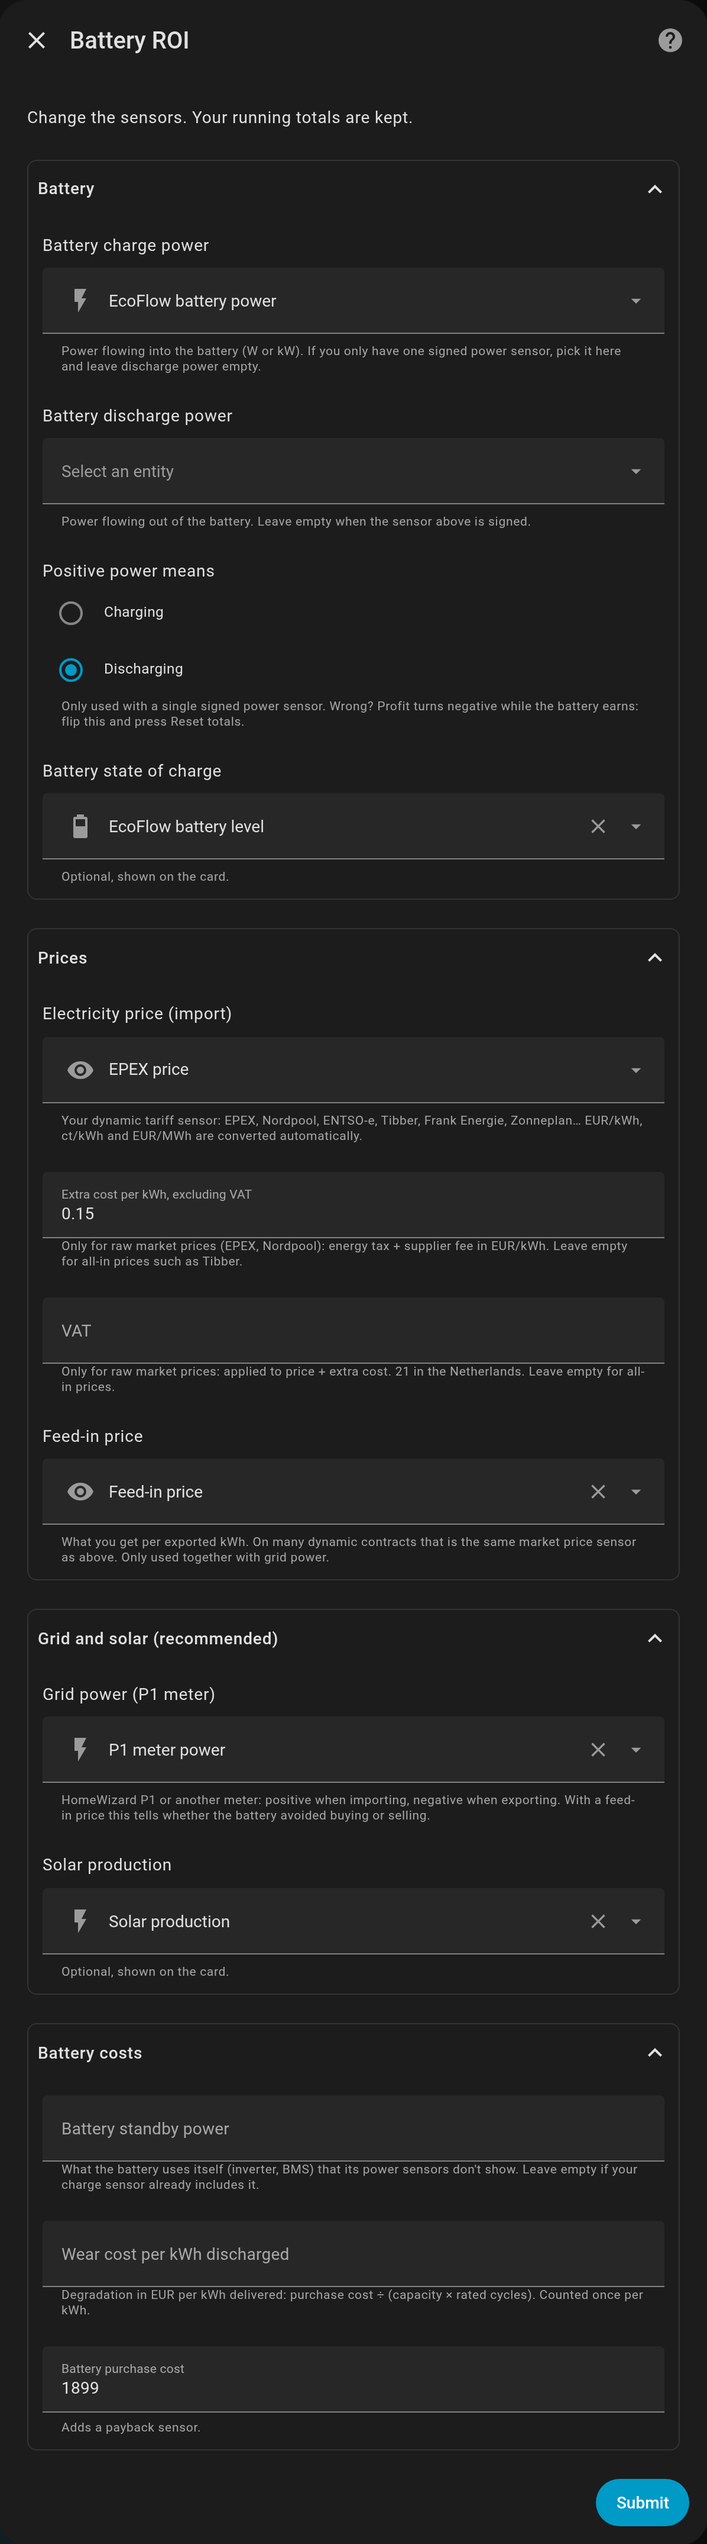
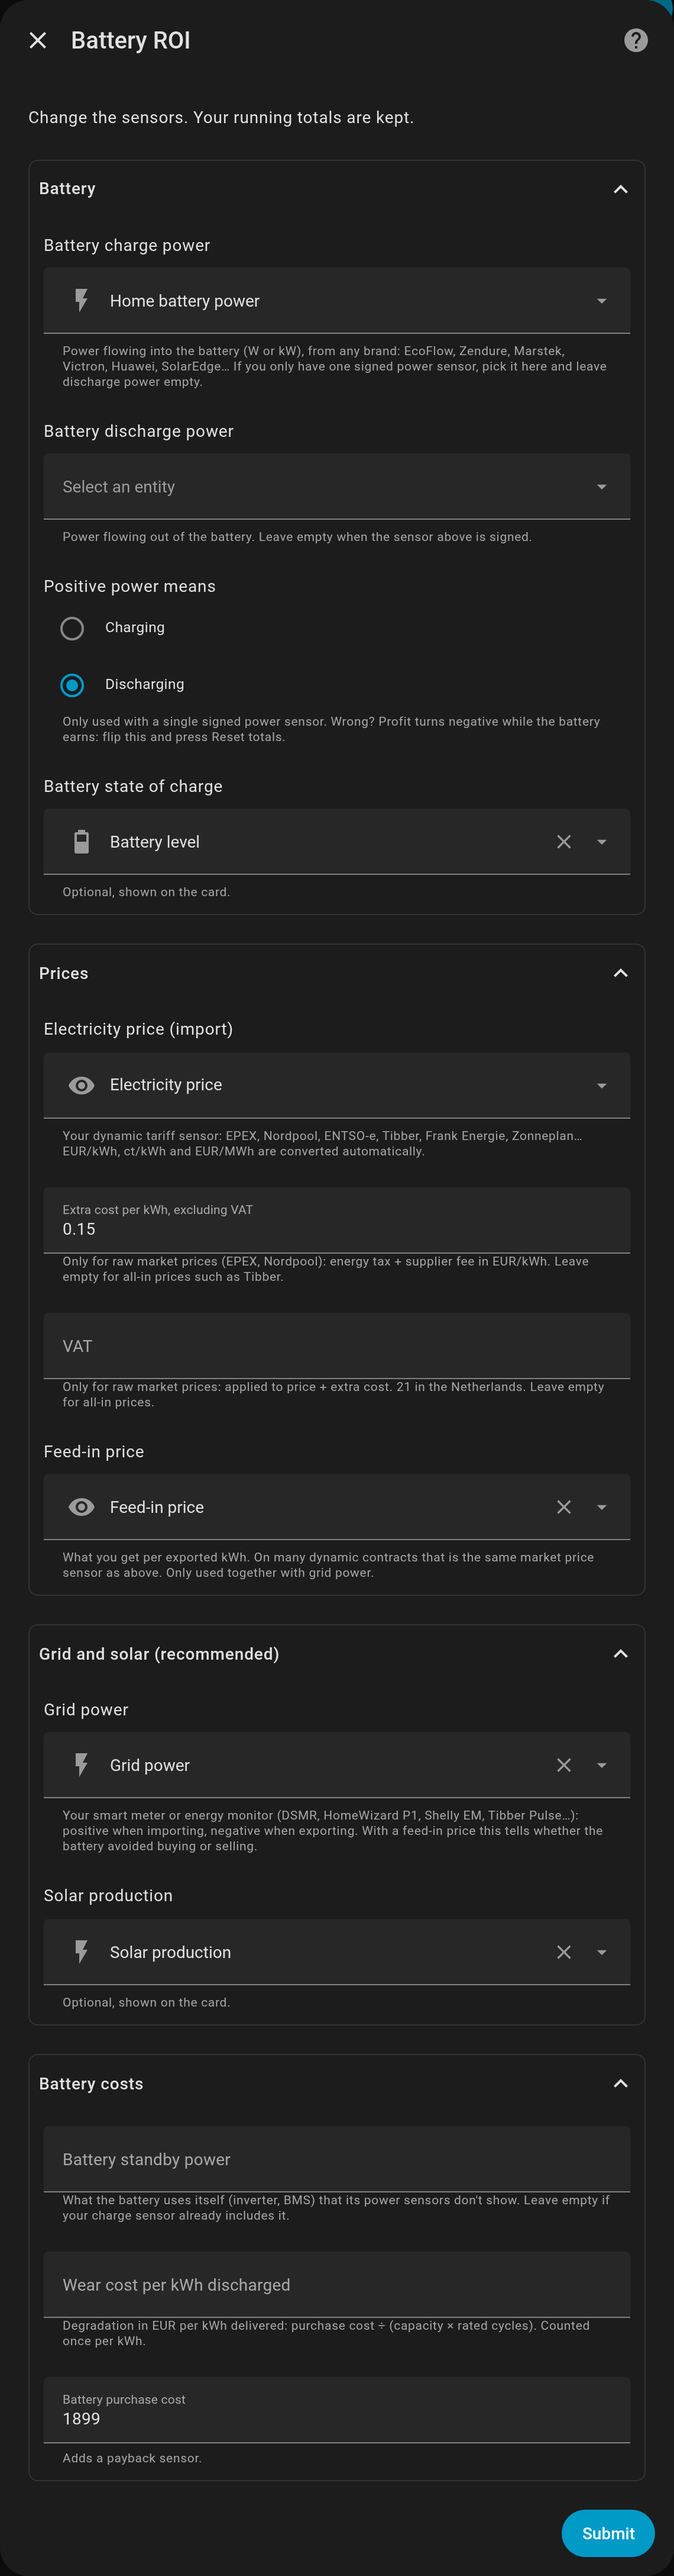
Make docs and setup texts brand-neutral with multi-brand examples
Claude-Session: https://claude.ai/code/session_01PiGiPtXKiLnKVAJBQztQsV

diff --git a/README.md b/README.md
@@ -34,8 +34,8 @@ Standard energy dashboards show kWh. With dynamic prices (EPEX, Nordpool, Tibber
 
 - 🧮 **Real profit, not an estimate**: every 30 seconds, energy × the price that applied at that moment
 - 🖱 **No YAML**: pick your own sensors in a setup screen, change them later without losing your totals
-- 🔌 **Works with what you have**: EcoFlow, HomeWizard P1, any dynamic price sensor, W/kW and EUR/kWh, ct/kWh or EUR/MWh
-- ☀ **Solar aware**: with a feed-in price and a P1 meter, it knows whether a kWh replaced buying or selling
+- 🔌 **Works with any battery that has a power sensor in Home Assistant** (EcoFlow, Zendure, Marstek, Anker SOLIX, Victron, Huawei, SolarEdge, Sessy, Tesla Powerwall and so on), any grid meter, any dynamic price sensor, W/kW and EUR/kWh, ct/kWh or EUR/MWh
+- ☀ **Solar aware**: with a feed-in price and a grid meter, it knows whether a kWh replaced buying or selling
 - 📈 **Dashboard card included**: today, this month, yesterday, last month, live €/h, monthly pace, payback and efficiency
 - 🎨 **Matches your theme**: the card uses only Home Assistant theme variables, light and dark
 - 🇳🇱 **English and Dutch**: setup screen and card follow your Home Assistant language
@@ -50,7 +50,7 @@ Standard energy dashboards show kWh. With dynamic prices (EPEX, Nordpool, Tibber
 | [HACS](https://hacs.xyz/) | To install and update (manual install also works) |
 | A **battery power** sensor | Power into and out of the battery, as two sensors or one signed sensor |
 | A **price** sensor | Your dynamic tariff per kWh |
-| *Optional:* feed-in price, grid power (P1), solar production, state of charge | Better accuracy and more on the card |
+| *Optional:* feed-in price, grid power, solar production, state of charge | Better accuracy and more on the card |
 
 No extra Python packages are installed. The card's only library, [Lit](https://lit.dev), is bundled.
 
@@ -58,7 +58,7 @@ No extra Python packages are installed. The card's only library, [Lit](https://l
 
 Five steps, about 10 minutes. Every step says exactly where to click in Home Assistant.
 
-> **Before you start:** you need [HACS](https://hacs.xyz/docs/use/) installed, and your battery and price sensors must already exist in Home Assistant (for example from the EcoFlow, HomeWizard, Tibber or Nordpool integrations).
+> **Before you start:** you need [HACS](https://hacs.xyz/docs/use/) installed, and your battery and price sensors must already exist in Home Assistant (for example from your battery's own integration, a smart meter integration like DSMR or HomeWizard, and a price integration like Nordpool, ENTSO-e or Tibber).
 
 ### Step 1 · Find your sensors
 
@@ -69,13 +69,25 @@ Write down the names of the sensors you'll pick in step 4.
 
 | You need | Search for | What it looks like |
 | --- | --- | --- |
-| Battery charge power *(required)* | `ecoflow` + `power` | Watts that go **into** the battery. Some batteries have one sensor that is positive while charging and negative while discharging; that's fine |
-| Battery discharge power | `ecoflow` + `power` | Watts that come **out of** the battery. Skip if the sensor above is signed |
+| Battery charge power *(required)* | `battery` + `power`, or your battery brand | Watts that go **into** the battery. Some batteries have one sensor that is positive while charging and negative while discharging; that's fine |
+| Battery discharge power | `battery` + `power`, or your battery brand | Watts that come **out of** the battery. Skip if the sensor above is signed |
 | Electricity price *(required)* | `price`, `tibber`, `nordpool`, `epex` | Your current price per kWh |
-| Grid power *(recommended)* | `p1` + `power` | HomeWizard P1: watts from (+) or to (−) the grid |
+| Grid power *(recommended)* | `grid`, `p1`, `net`, `power_consumption` | Your smart meter or energy monitor: watts from (+) or to (−) the grid |
 | Feed-in price *(recommended)* | `price` | What you get per exported kWh. With a dynamic contract this is often the same price sensor |
-| Solar production | `solar`, `envoy`, `inverter` | Watts your panels produce right now |
-| Battery level | `ecoflow` + `level`, `soc` | Battery % |
+| Solar production | `solar`, `pv`, `inverter` | Watts your panels produce right now |
+| Battery level | `battery` + `level`, `soc`, `state_of_charge` | Battery % |
+
+**Examples by brand.** Entity names differ per integration and per firmware, so treat these as hints, not exact names:
+
+| Kind | Brand or integration | Sensor to look for |
+| --- | --- | --- |
+| Battery | EcoFlow, Zendure, Anker SOLIX | separate *input* / *output* power sensors → fill both charge and discharge |
+| Battery | Marstek, Victron, Huawei, SolarEdge, Sessy, Tesla Powerwall | one *battery power* sensor, positive one way and negative the other → fill charge only and set *Positive power means* |
+| Grid | DSMR / Slimme meter, HomeWizard P1, P1 Monitor, Shelly EM, Tibber Pulse | *power consumption* minus *power production*, or one signed *active power* sensor |
+| Solar | Enphase, SolarEdge, SMA, Growatt, Fronius, APsystems | *current power* or *AC power* of the inverter |
+| Price | Nordpool, ENTSO-e, EnergyZero, Tibber, Frank Energie, Zonneplan, Octopus | *current price* |
+
+Your grid meter (or battery) only has two separate sensors, one per direction, and you want one signed sensor? Make one with a [template helper](https://my.home-assistant.io/redirect/helpers/) (**Settings → Devices & services → Helpers → Create helper → Template → Template sensor**, state `{{ states('sensor.power_consumption')|float(0) - states('sensor.power_production')|float(0) }}`, unit W, device class Power).
 
 > **Not sure which way a signed sensor goes?** Open it (click the name) while the battery is charging. Positive number = "positive means charging".
 
@@ -131,7 +143,7 @@ All fields explained:
 | | Extra cost per kWh, excl. VAT | | **Only for raw market prices** (EPEX, Nordpool): energy tax + supplier fee in EUR/kWh |
 | | VAT % | | **Only for raw market prices**: 21 in the Netherlands |
 | | Feed-in price | | What you get per exported kWh |
-| Grid and solar | Grid power (P1) | | HomeWizard P1 active power, + import / − export |
+| Grid and solar | Grid power | | Smart meter or energy monitor, + import / − export |
 | | Solar production | | Shown on the card |
 | Battery costs | Standby power | | Watts the battery uses itself that its power sensors miss |
 | | Wear cost per kWh discharged | | Purchase price ÷ (capacity in kWh × rated cycles) |
@@ -167,7 +179,7 @@ The numbers start at €0 and grow from the moment you finish step 4.
 
 **Numbers look wrong?**
 
-- *Profit goes down while the battery clearly earns money* → the sign is flipped. Change **Positive power means** (step 4 via Configure), or check your P1 sensor, then **Reset totals**.
+- *Profit goes down while the battery clearly earns money* → the sign is flipped. Change **Positive power means** (step 4 via Configure), or check your grid power sensor, then **Reset totals**.
 - *Profit is far too small or large* → check the price sensor's unit (EUR/kWh, ct/kWh and EUR/MWh are handled) and that *Extra cost* is only filled in for raw market prices.
 - *Card says Battery ROI isn't set up* → finish step 4, then refresh the browser.
 - *Card doesn't appear in the card list* → refresh the browser (Ctrl+F5); on the phone app, close and reopen it.
@@ -221,13 +233,13 @@ flowchart LR
     B[Battery power<br/>charge / discharge] --> S((every 30 s))
     P[Price now<br/>+ extra cost] --> S
     F[Feed-in price] -.-> S
-    G[P1 grid power] -.-> S
+    G[Grid power] -.-> S
     S --> R[€/h right now]
     R --> T[Today · Month · Total]
 ```
 
 - **Price sensor only.** `profit per hour = (discharge kW − charge kW) × price`. The same price is used in both directions, which is right under net metering (*salderingsregeling*).
-- **Plus feed-in price and P1.** Each kWh is valued at the price it actually displaced:
+- **Plus feed-in price and grid power.** Each kWh is valued at the price it actually displaced:
 
 | Battery is… | While the house is… | Valued at |
 | --- | --- | --- |
@@ -238,7 +250,7 @@ flowchart LR
 
 Included: round-trip losses, because you charge more kWh than you get back. Optional: the battery's own standby draw, and wear per kWh discharged (counted once, not on both charge and discharge).
 
-> **Tip for the Netherlands:** net metering ends on 1 January 2027. From then on a stored solar kWh is worth the feed-in price, not the import price, so add a feed-in price and your P1 meter to keep the numbers honest.
+> **Tip for the Netherlands:** net metering ends on 1 January 2027. From then on a stored solar kWh is worth the feed-in price, not the import price, so add a feed-in price and your grid meter to keep the numbers honest.
 
 > **Tip for raw EPEX prices:** they exclude energy tax, supplier fee and VAT. Fill in *Extra cost per kWh* and *VAT*: the import price becomes (market price + extra cost) × (1 + VAT).
 
